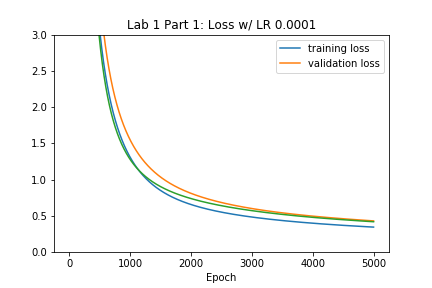
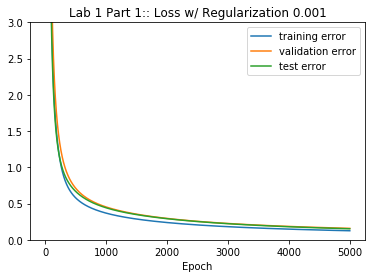
Final Copy

Changed region(s): [[0.0, 0.0288, 0.968, 0.9784]]

diff --git a/LAB1/a1/starter.py b/LAB1/a1/starter.py
@@ -162,6 +162,10 @@ def grad_descent(W, b, trainingData, trainingLabels, validData, validTarget, tes
         accuracy = calcAcc(W,x,trainingLabels,b)
         errorList.append(error)
         accuracyList.append(accuracy)
+        val_loss = crossEntropyLoss(W, b, validData, validTarget, reg)
+        valLossList.append(val_loss)
+        test_loss = crossEntropyLoss(W, b, testData, testTarget, reg)
+        testLossList.append(test_loss)
         
         # Gradient Descent Cross Entropy
         for i in range(iterations):
@@ -178,8 +182,12 @@ def grad_descent(W, b, trainingData, trainingLabels, validData, validTarget, tes
             errorList.append(error)
             accuracy = calcAcc(W,x,trainingLabels,b)
             accuracyList.append(accuracy)
+            val_loss = crossEntropyLoss(W, b, validData, validTarget, reg)
+            valLossList.append(val_loss)
+            test_loss = crossEntropyLoss(W, b, testData, testTarget, reg)
+            testLossList.append(test_loss)
 
-            print("Epoch: " ,i, " Error: ", error, " Accuracy: ",accuracy)
+            print("Epoch: " ,i, "Test Error: ", error, " Validation Loss: ", val_loss, " Test Loss: ", test_loss, " Accuracy: ",accuracy)
                   
     return W,b,errorList,accuracyList,valLossList,testLossList
 
@@ -193,7 +201,7 @@ def plotLab(errorsList,accuracyList,learningRate, lab_part, plotAcc,plotLoss, _l
         plt.figure(1)
         plt.plot(errorsList, label = _label)
         plt.xlabel("Epoch")
-        plt.ylim((0,3))
+        plt.ylim((0,30))
         plt.title(f"Lab 1 Part {lab_part}: Loss w/ {hyperparam} {learningRate}")
         plt.savefig(f'lab1part{lab_part}LOSSplot{hyperparam}{learningRate}.png')
         plt.legend()
@@ -206,7 +214,6 @@ def plotLab(errorsList,accuracyList,learningRate, lab_part, plotAcc,plotLoss, _l
         plt.xlabel("Epoch")
         plt.title(f"Lab 1 Part {lab_part}: Accuracy w/ {hyperparam} {learningRate}")
         plt.savefig(f'lab1part{lab_part}ACCURACYplot{hyperparam}{learningRate}.png')
-        plt.legend()
         
     if (plotLoss):    
         plot_loss()
@@ -256,22 +263,22 @@ def main():
         x = np.reshape(x,(x.shape[0],-1))
         return np.sum(((((W.transpose() @ x.transpose()) + b).transpose() > 0.5).astype(int) ==y).astype(int)) / x.shape[0]
     
-    #W,b, errors, accuracies, valErr, testErr = grad_descent(W, b, trainData, trainTarget, validData, validTarget, testData, testTarget, 0.005, 5000, 0.1, 10**-7, "LOG")
-    #plotLab(errors,accuracies,0.1,"2",True, True, "logistic regression", "Reg")
-    #W,b, errors, accuracies, valErr, testErr = grad_descent(W, b, trainData, trainTarget, validData, validTarget, testData, testTarget, 0.005, 5000, 0, 10**-7, "LOG")
-    #plotLab(errors,accuracies,0,"2",True, True, "logistic regression", "LIN VS LOG w Reg")
+    W,b, errors, accuracies, valErr, testErr = grad_descent(W, b, trainData, trainTarget, validData, validTarget, testData, testTarget, 0.005, 5000, 0, 10**-7, "LOG")
+    plotLab(errors,accuracies,0.1,"2",False, True, "logistic regression", "Reg")
     b_2 = 0
     W_2,b_2, errors, accuracies, valErr, testErr = grad_descent(W_2, b_2, trainData, trainTarget, validData, validTarget, testData, testTarget, 0.005, 5000, 0, 10**-7, "LIN")
-    #plotLab(errors,accuracies,0,'2', True, True,  "linear regression", "LIN VS LOG w Reg")
+    plotLab(errors,accuracies,0,'2', False, True,  "linear regression", "LIN VS LOG w Reg")
     
-    # Tuning Learning Rate
+    # Tuning REG
 # =============================================================================
-#     LRs = [0.0001,0.001,0.005]
-#     for LR in LRs:
-#         W=np.random.rand(784,1)
-#         b = 0      
-#         W,b, errors, accuracies, valLosses, testLosses = grad_descent(W, b, trainData, trainTarget, validData, validTarget, testData, testTarget, LR, 5000, 0, 10**-7, "LIN")
-#         print(f"For LR = {LR} accuracy is:" ,accuracies[len(accuracies)-1])
+    #reg = 0.1
+  
+    #W,b, errors, accuracies, valLosses, testLosses = grad_descent(W, b, trainData, trainTarget, validData, validTarget, testData, testTarget, 0.005, 5000, reg, 10**-7, "LOG")
+    #plotLab(errors,accuracies,reg, "2", True,True,"training error" , "Regularization")
+    #plotLab(valLosses,accuracies,reg, "2", True,True,"validation error" , "Regularization")
+    #plotLab(testLosses,accuracies,reg, "2", True,True,"test error" , "Regularization")
+         
+         #print(f"For LR = {LR} accuracy is:" ,accuracies[len(accuracies)-1])
 #         
 # =============================================================================
 # =============================================================================
